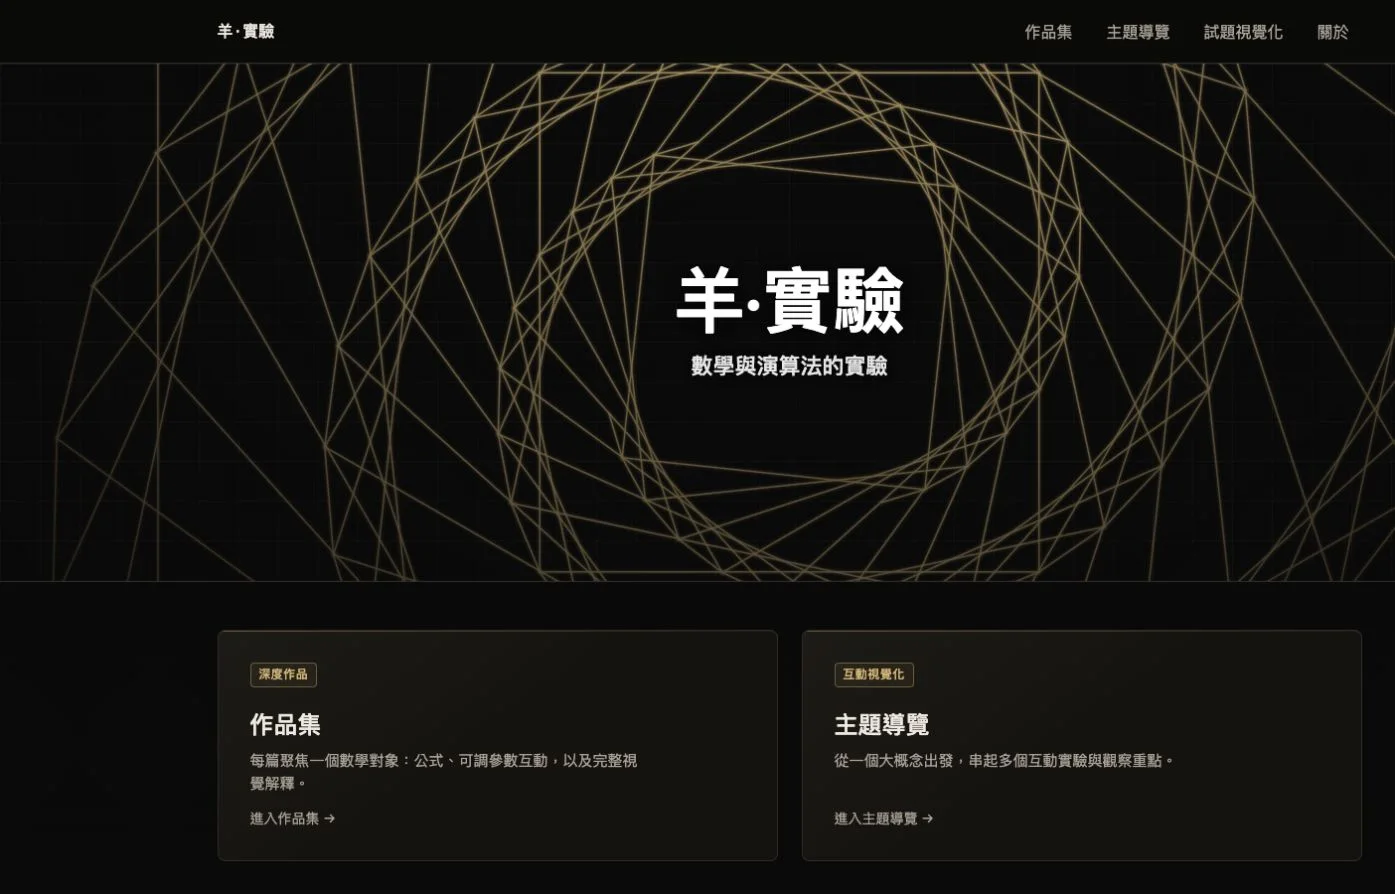
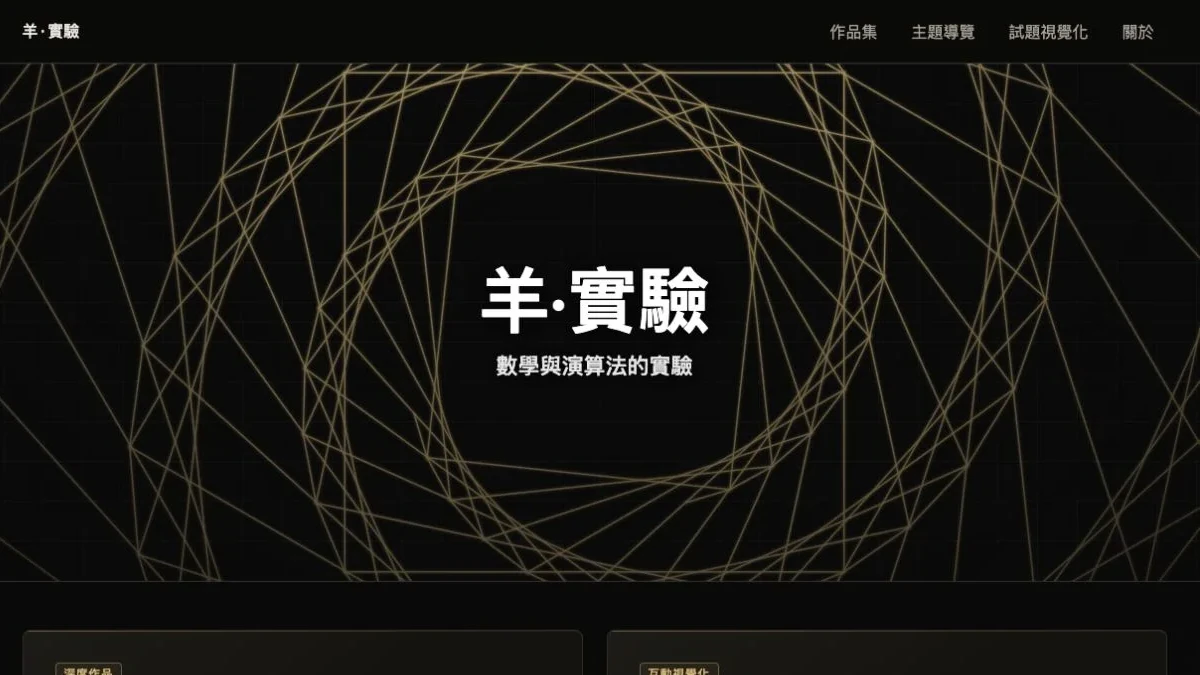
fix: sharpen and center project screenshots

diff --git a/components/ProjectScreenshotFigure.tsx b/components/ProjectScreenshotFigure.tsx
@@ -43,29 +43,45 @@ export function ProjectScreenshotFigure({
             isMobile ? "aspect-[4/5]" : "aspect-video",
           )}
         >
+          <picture className="absolute inset-0">
+            {screenshot.desktopSrc ? (
+              <source
+                media="(min-width: 768px)"
+                srcSet={screenshot.desktopSrc}
+              />
+            ) : null}
+            <Image
+              src={screenshot.src}
+              alt={screenshot.alt}
+              fill
+              sizes={imageSizes}
+              priority={priority}
+              loading={priority ? "eager" : undefined}
+              fetchPriority={priority ? "high" : undefined}
+              className="object-cover object-top transition-transform duration-300 ease-out group-hover:scale-[1.015]"
+            />
+          </picture>
+        </div>
+      ) : (
+        <picture>
+          {screenshot.desktopSrc ? (
+            <source
+              media="(min-width: 768px)"
+              srcSet={screenshot.desktopSrc}
+            />
+          ) : null}
           <Image
             src={screenshot.src}
             alt={screenshot.alt}
-            fill
+            width={width}
+            height={height}
             sizes={imageSizes}
             priority={priority}
             loading={priority ? "eager" : undefined}
             fetchPriority={priority ? "high" : undefined}
-            className="object-cover object-top transition-transform duration-300 ease-out group-hover:scale-[1.015]"
+            className="block h-auto w-full object-contain"
           />
-        </div>
-      ) : (
-        <Image
-          src={screenshot.src}
-          alt={screenshot.alt}
-          width={width}
-          height={height}
-          sizes={imageSizes}
-          priority={priority}
-          loading={priority ? "eager" : undefined}
-          fetchPriority={priority ? "high" : undefined}
-          className="block h-auto w-full object-contain"
-        />
+        </picture>
       )}
       <figcaption
         className={cn(

diff --git a/lib/projects.ts b/lib/projects.ts
@@ -2,6 +2,7 @@ export type ProjectApplicationKind = "web" | "android";
 
 export interface ProjectScreenshot {
   src: string;
+  desktopSrc?: string;
   alt: string;
   caption: string;
   orientation: "mobile" | "desktop";
@@ -62,8 +63,9 @@ export const projects: Project[] = [
     screenshots: [
       {
         src: "/images/projects/card-deck-builder-featured.webp",
+        desktopSrc: "/images/projects/card-deck-builder-featured-desktop.webp",
         alt: "查卡模式與卡片列表畫面",
-        caption: "手機查卡、搜尋與多條件篩選",
+        caption: "查卡、搜尋與多條件篩選",
         orientation: "mobile",
       },
       {
@@ -273,8 +275,9 @@ export const featuredProjectScreenshots = [
     projectSlug: "card-deck-builder",
     screenshot: {
       src: "/images/projects/card-deck-builder-featured.webp",
+      desktopSrc: "/images/projects/card-deck-builder-featured-desktop.webp",
       alt: "查卡模式與卡片列表畫面",
-      caption: "手機查卡、搜尋與多條件篩選",
+      caption: "查卡、搜尋與多條件篩選",
       orientation: "mobile",
     } satisfies ProjectScreenshot,
   },
